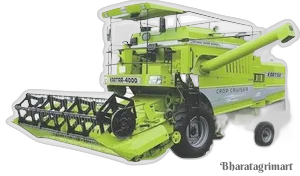
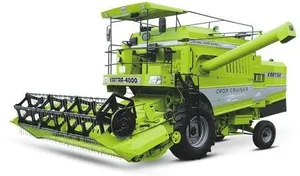
scraped harvester details.

diff --git a/Content/Harvester/Kartar.py b/Content/Harvester/Kartar.py
@@ -7,6 +7,7 @@ from urllib.parse import urlparse
 import xlsxwriter
 import pandas as pd
 from PIL import Image , ImageFont, ImageDraw
+import rembg
 from rembg import remove 
 from selenium import webdriver
 from selenium.webdriver.chrome.service import Service
